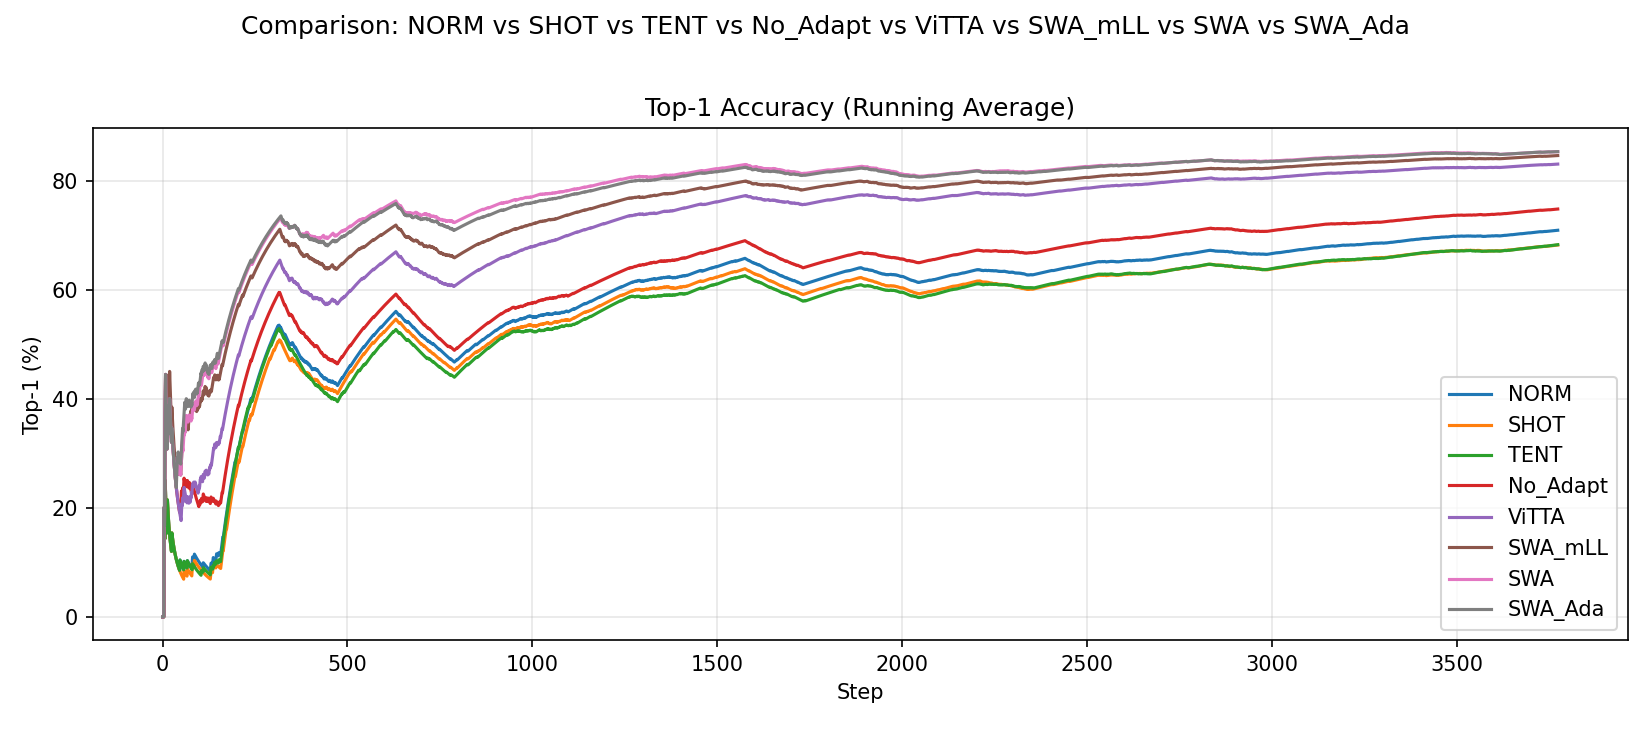
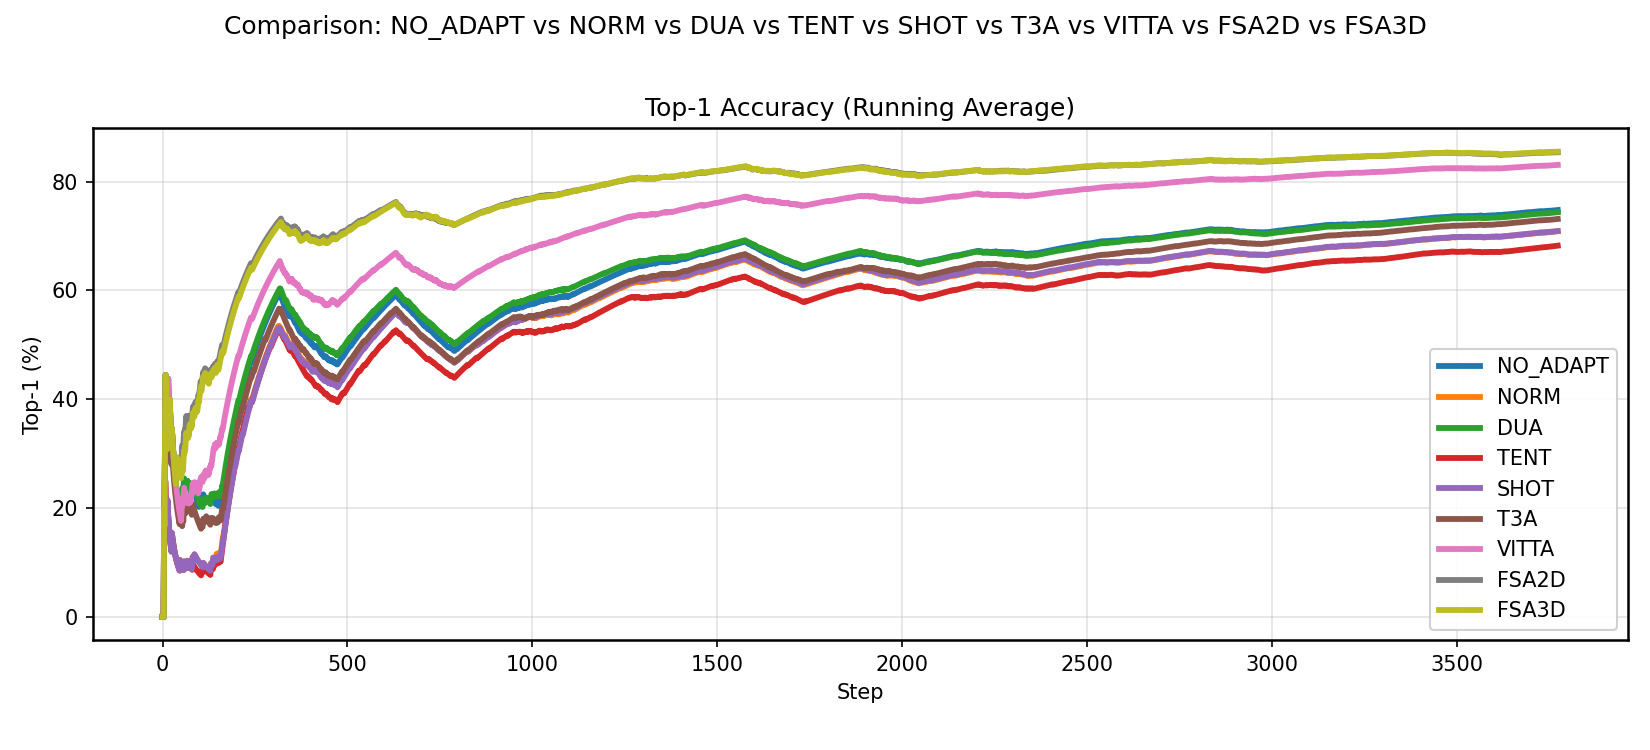
correct the plot code in misc folder plus cleanups

diff --git a/misc/plot_accuracy_progression.py b/misc/plot_accuracy_progression.py
@@ -35,11 +35,23 @@ from pathlib import Path
 from typing import Any, Dict, List, Tuple
 
 import matplotlib.pyplot as plt
+from cycler import cycler
+
+# Global plotting style: thicker lines and distinctive colors
+# Use the tab10 palette (10 high-contrast colors). If more are needed, it will cycle.
+PALETTE = list(plt.cm.tab10.colors)
+plt.rcParams["lines.linewidth"] = 2.8
+plt.rcParams["axes.prop_cycle"] = cycler(color=PALETTE)
+plt.rcParams["axes.linewidth"] = 1.2
+plt.rcParams["grid.linewidth"] = 0.9
+plt.rcParams["legend.framealpha"] = 0.9
 
 # Regex to capture step markers and metrics from different log styles
 # 1) TTA style: "TTA Epoch1: [4/3783] ..."
 RE_STEP_TTA = re.compile(r"TTA\s+Epoch(\d+):\s*\[(\d+)/(\d+)\]")
-# 2) Baseline validate style: "Test: [4/3783] ..."
+# 2) Baseline validate style with explicit epoch: "Test Epoch 37: [4/3783] ..."
+RE_STEP_TEST_EPOCH = re.compile(r"Test\s+Epoch\s+(\d+):\s*\[(\d+)/(\d+)\]")
+# 3) Baseline validate style without epoch: "Test: [4/3783] ..."
 RE_STEP_TEST = re.compile(r"Test:\s*\[(\d+)/(\d+)\]")
 # Flexible float (supports integers and scientific notation)
 _FLOAT = r"[+-]?(?:\d+(?:\.\d*)?|\.\d+)(?:[eE][+-]?\d+)?"
@@ -82,17 +94,22 @@ def parse_log_lines(lines: List[str]) -> Dict[str, Any]:
 
     gstep = 0
     for line in lines:
-            # Anchor on step marker. Support both TTA and baseline validate formats.
+            # Anchor on step marker. Support TTA, Test Epoch, and Test formats.
             m_tta = RE_STEP_TTA.search(line)
             if m_tta:
                 ep = int(m_tta.group(1))
                 i = int(m_tta.group(2))
             else:
-                m_test = RE_STEP_TEST.search(line)
-                if not m_test:
-                    continue
-                ep = -1
-                i = int(m_test.group(1))
+                m_test_epoch = RE_STEP_TEST_EPOCH.search(line)
+                if m_test_epoch:
+                    ep = int(m_test_epoch.group(1))
+                    i = int(m_test_epoch.group(2))
+                else:
+                    m_test = RE_STEP_TEST.search(line)
+                    if not m_test:
+                        continue
+                    ep = -1
+                    i = int(m_test.group(1))
 
             # Accuracies: parse independently, allow missing
             m_p1 = RE_P1.search(line)
@@ -240,7 +257,10 @@ def make_plot(
     metric: str = "avg",
     title: str | None = None,
     out_path: Path | None = None,
+    fig_scale: float = 1.0,
 ) -> None:
+    def _scale(sz: tuple[float, float]) -> tuple[float, float]:
+        return (sz[0] * fig_scale, sz[1] * fig_scale)
     # Choose which series to plot
     if metric == "avg":
         y1_top1, y1_top5 = data1["top1_avg"], data1["top5_avg"]
@@ -256,7 +276,7 @@ def make_plot(
     x1 = data1["step"]
     x2 = data2["step"]
 
-    fig, axes = plt.subplots(2, 1, figsize=(10, 8), sharex=True)
+    fig, axes = plt.subplots(2, 1, figsize=_scale((10, 8)), sharex=True)
 
     # Top-1 subplot
     ax = axes[0]
@@ -298,6 +318,7 @@ def make_plot_selected_multi(
     metric: str = "avg",
     title: str | None = None,
     out_path: Path | None = None,
+    fig_scale: float = 1.0,
 ) -> None:
     """Render only the requested subplots for N runs (N >= 1).
 
@@ -325,7 +346,8 @@ def make_plot_selected_multi(
     if n_rows == 0:
         print("No plots selected; nothing to render.")
         return
-    fig, axes = plt.subplots(n_rows, 1, figsize=(11, max(3 * n_rows, 5)), sharex=True)
+    base_h = max(3 * n_rows, 5)
+    fig, axes = plt.subplots(n_rows, 1, figsize=(11 * fig_scale, base_h * fig_scale), sharex=True)
     if n_rows == 1:
         axes = [axes]
 
@@ -404,6 +426,7 @@ def make_plot_top1_and_error_multi(
     metric: str = "avg",
     title: str | None = None,
     out_path: Path | None = None,
+    fig_scale: float = 1.0,
 ) -> None:
     """Create a 2-row figure comparing Top-1 accuracy and Top-1 error for N runs (N>=2)."""
     assert len(data_list) == len(labels) and len(data_list) >= 2
@@ -419,7 +442,7 @@ def make_plot_top1_and_error_multi(
 
     steps = [d["step"] for d in data_list]
 
-    fig, axes = plt.subplots(2, 1, figsize=(10, 7), sharex=True)
+    fig, axes = plt.subplots(2, 1, figsize=(10 * fig_scale, 7 * fig_scale), sharex=True)
 
     # Top-1 Accuracy
     ax = axes[0]
@@ -513,6 +536,7 @@ def make_plot_selected_compare(
     metric: str = "avg",
     title: str | None = None,
     out_path: Path | None = None,
+    fig_scale: float = 1.0,
 ) -> None:
     """Render only the requested subplots for two runs.
 
@@ -540,7 +564,8 @@ def make_plot_selected_compare(
     if n_rows == 0:
         print("No plots selected; nothing to render.")
         return
-    fig, axes = plt.subplots(n_rows, 1, figsize=(10, max(3 * n_rows, 5)), sharex=True)
+    base_h = max(3 * n_rows, 5)
+    fig, axes = plt.subplots(n_rows, 1, figsize=(10 * fig_scale, base_h * fig_scale), sharex=True)
     if n_rows == 1:
         axes = [axes]
 
@@ -622,6 +647,7 @@ def make_plot_selected_single(
     metric: str = "avg",
     title: str | None = None,
     out_path: Path | None = None,
+    fig_scale: float = 1.0,
 ) -> None:
     """Render only the requested subplots for a single run."""
     if metric == "avg":
@@ -711,6 +737,7 @@ def make_plot_single(
     metric: str = "avg",
     title: str | None = None,
     out_path: Path | None = None,
+    fig_scale: float = 1.0,
 ) -> None:
     # Choose series
     if metric == "avg":
@@ -728,7 +755,7 @@ def make_plot_single(
 
     x = data["step"]
 
-    fig, axes = plt.subplots(3, 1, figsize=(10, 10), sharex=True)
+    fig, axes = plt.subplots(3, 1, figsize=(10 * fig_scale, 10 * fig_scale), sharex=True)
 
     # Top-1/Top-5
     ax = axes[0]
@@ -788,6 +815,7 @@ def make_plot_compare_full(
     metric: str = "avg",
     title: str | None = None,
     out_path: Path | None = None,
+    fig_scale: float = 1.0,
 ) -> None:
     """Compare two runs in one figure: accuracies, losses, confidences.
 
@@ -824,7 +852,7 @@ def make_plot_compare_full(
 
     # Build figure
     n_rows = 4
-    fig, axes = plt.subplots(n_rows, 1, figsize=(11, 12), sharex=True)
+    fig, axes = plt.subplots(n_rows, 1, figsize=(11 * fig_scale, 12 * fig_scale), sharex=True)
 
     # Top-1
     ax = axes[0]
@@ -901,6 +929,7 @@ def make_plot_top1_and_error_compare(
     metric: str = "avg",
     title: str | None = None,
     out_path: Path | None = None,
+    fig_scale: float = 1.0,
 ) -> None:
     """Create a 2-row figure comparing Top-1 accuracy and Top-1 error for two runs.
 
@@ -979,6 +1008,12 @@ def main():
         help="Select one or more subplots to render: acc1 err1 loss_reg loss_consis acc5 err5. If omitted, default behavior is used.",
     )
     parser.add_argument(
+        "--figscale",
+        type=float,
+        default=1.0,
+        help="Scale factor applied to figure size (e.g., 1.5 for 50% larger figures).",
+    )
+    parser.add_argument(
         "--max_steps",
         type=int,
         default=None,
@@ -996,9 +1031,15 @@ def main():
         if not dirp.exists() or not dirp.is_dir():
             print(f"Error: directory not found: {dirp}", file=sys.stderr)
             sys.exit(1)
-        file_paths = sorted([p for p in dirp.glob("*.txt") if p.is_file()])
+        # Accept both .txt and .out files
+        txts = [p for p in dirp.glob("*.txt") if p.is_file()]
+        outs = [p for p in dirp.glob("*.out") if p.is_file()]
+        file_paths = sorted(txts + outs)
         if len(file_paths) < 2:
-            print(f"Error: --dir must contain at least two .txt files (found {len(file_paths)})", file=sys.stderr)
+            print(
+                f"Error: --dir must contain at least two .txt/.out files (found {len(file_paths)})",
+                file=sys.stderr,
+            )
             sys.exit(1)
     else:
         # Backward compatibility: --file1 (and optional --file2)
@@ -1094,6 +1135,7 @@ def main():
                     metric=args.metric,
                     title=title,
                     out_path=out_path,
+                    fig_scale=args.figscale,
                 )
             else:
                 if len(d_list) == 1:
@@ -1103,6 +1145,7 @@ def main():
                         metric=args.metric,
                         title=title,
                         out_path=out_path,
+                        fig_scale=args.figscale,
                     )
                 elif len(d_list) == 2:
                     title = args.title if args.title else f"{noise} — {labels[0]} vs {labels[1]}"
@@ -1114,6 +1157,7 @@ def main():
                         metric=args.metric,
                         title=title,
                         out_path=out_path,
+                        fig_scale=args.figscale,
                     )
                 else:
                     title = args.title if args.title else f"{noise} — " + " vs ".join(labels)
@@ -1123,6 +1167,7 @@ def main():
                         metric=args.metric,
                         title=title,
                         out_path=out_path,
+                        fig_scale=args.figscale,
                     )
             produced_any = True
         if produced_any:
@@ -1139,6 +1184,7 @@ def main():
             metric=args.metric,
             title=title,
             out_path=out_path,
+            fig_scale=args.figscale,
         )
     else:
         if len(data_list) == 1:
@@ -1147,6 +1193,7 @@ def main():
                 metric=args.metric,
                 title=args.title,
                 out_path=out_path,
+                fig_scale=args.figscale,
             )
         elif len(data_list) == 2:
             make_plot_top1_and_error_compare(
@@ -1157,6 +1204,7 @@ def main():
                 metric=args.metric,
                 title=args.title if args.title else f"Comparison: {labels[0]} vs {labels[1]}",
                 out_path=out_path,
+                fig_scale=args.figscale,
             )
         else:
             make_plot_top1_and_error_multi(
@@ -1165,6 +1213,7 @@ def main():
                 metric=args.metric,
                 title=args.title if args.title else ("Comparison: " + " vs ".join(labels)),
                 out_path=out_path,
+                fig_scale=args.figscale,
             )
 
 

diff --git a/main_tta_ucf.py b/main_tta_ucf.py
@@ -151,7 +151,7 @@ if __name__ == '__main__':
 
     # args.tsn_style = True
     # ========================= New Arguments ==========================
-    args.corruption_list = 'continual_alternate' # mini, full, continual, random, continual_alternate
+    args.corruption_list = 'continual' # mini, full, continual, random, continual_alternate
 
     # DWT/FFT/DCT subband alignment hook
     args.dwt_align_enable = True
@@ -229,9 +229,9 @@ if __name__ == '__main__':
     # Choose alignment weights
     args.lambda_base_align = 1.0
     args.dwt_align_lambda_ll = 1.0
-    args.dwt_align_lambda_lh = 1.0
-    args.dwt_align_lambda_hl = 1.0
-    args.dwt_align_lambda_hh = 1.0
+    args.dwt_align_lambda_lh = 0.0
+    args.dwt_align_lambda_hl = 0.0
+    args.dwt_align_lambda_hh = 0.0
 
     if args.dwt_align_levels == 2 and args.dwt_align_3d == False and args.arch == 'tanet':
         args.dwt_stats_npz_file = '/scratch/project_465001897/datasets/ucf/source_statistics_tanet_dwt/dwt_subband_stats_L2_20250828_163634.npz'
